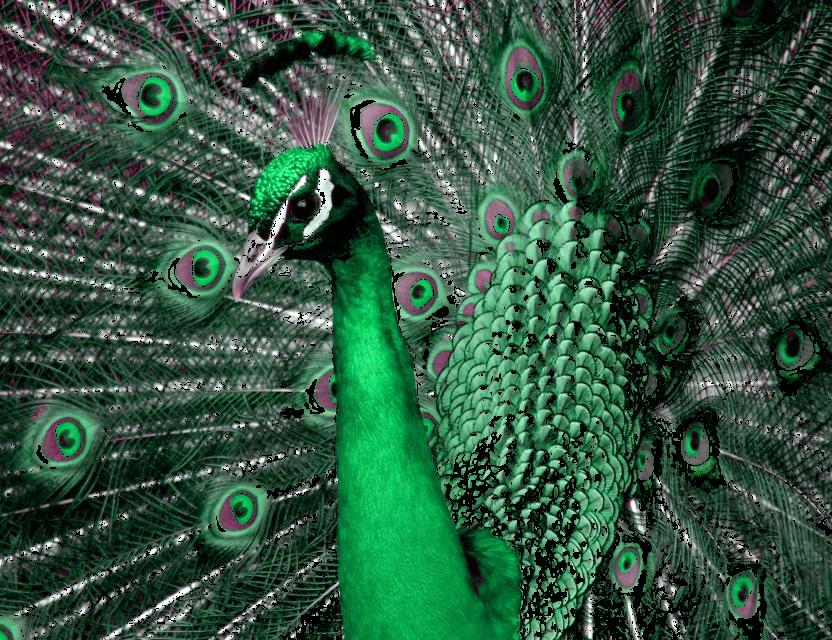
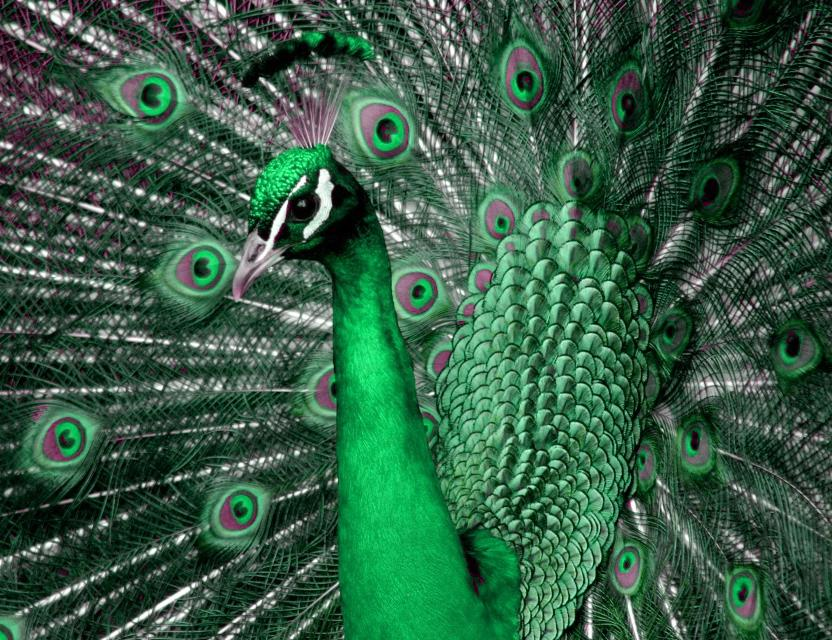
A bit more code cleaning

diff --git a/src/Harmonization.py b/src/Harmonization.py
@@ -7,6 +7,7 @@ from utils.Histogramme import Histogramme
 from colorsys import rgb_to_hsv as r2h
 from colorsys import hsv_to_rgb as h2r
 from utils.Modele import Modele
+import time
 
 
 ############################################################## Utils ################################################################################""
@@ -64,12 +65,12 @@ def assign_closest_edge(hue, model: Modele):
         return bord[0]
 
  
-def assign_closest_edge_opti(hue, model: Modele , i , j):
+def assign_closest_edge_opti(hue, image , model: Modele , i , j):
     '''
         Returns the closest border based on the closest edge
     '''
 
-    sector_index = assign_closest_sector_index_optimized(hue, model , i , j)
+    sector_index = assign_closest_sector_index_optimized(model , image , i , j)
     if sector_index is None:
         return hue 
     
@@ -83,7 +84,7 @@ def assign_closest_edge_opti(hue, model: Modele , i , j):
         return bord[0]
 
 
-def assign_closest_sector_index_optimized(h , model: Modele, image, i, j):
+def assign_closest_sector_index_optimized(model: Modele, image, i, j):
     '''
         Return the center of the closest edge, using the Energy calculation.
 
@@ -129,7 +130,7 @@ def assign_closest_sector_index_optimized(h , model: Modele, image, i, j):
 
  
         #Multiply by a constant and add E2 if you want to try the real formula
-        E = E1 
+        E = E1
 
         if E < min_energy:  
             min_energy = E
@@ -179,8 +180,8 @@ def harmony_by_template(image, model: Modele):
         for j in range(image.size[1]):
             r, g, b = image.getpixel((i, j))
             hue , saturation , _ = r2h(r / 255.0, g / 255.0, b / 255.0)
-            E = assign_closest_edge(hue , model) #old
-            #E = assign_closest_edge_opti(hue , model , i , j) #new
+            #E = assign_closest_edge(hue , model) #old
+            E = assign_closest_edge_opti(hue , image , model , i , j) #new
             sum_harmony_value += Modele.distance_congru(hue , E) * saturation  # Use closest edge
 
     return sum_harmony_value
@@ -276,13 +277,13 @@ def harmonize(image, imageOut, template: Modele, alpha):
             h, s, v = r2h(r / 255.0, g / 255.0, b / 255.0)
             closest_sector_index = assign_closest_sector_index(h, template)
             central_hue = template.C[closest_sector_index]
-            width = template.w[closest_sector_index]
+            sector_width = template.w[closest_sector_index]
 
             #If already in the template, keep it
             if template.distance_secteur(h, closest_sector_index) == -1:
                 new_h = h
             else:
-                new_h = project_hue(central_hue , width/2 , h)
+                new_h = project_hue(central_hue , sector_width/2 , h)
 
             new_r, new_g, new_b = [int(c * 255) for c in h2r(new_h, s, v)] #Convert back to RGB
             pixels_out[i, j] = (new_r, new_g, new_b)
@@ -310,18 +311,19 @@ def harmonize_opti(image , imageOut , template : Modele , alpha):
         for j in range(height):
             r, g, b = pixels[i, j]
             h, s, v = r2h(r / 255.0, g / 255.0, b / 255.0)
-            closest_edge_index = assign_closest_sector_index_optimized(h , template , image , i , j)
+            closest_edge_index = assign_closest_sector_index_optimized(template , image , i , j)
             central_hue = template.C[closest_edge_index]
-            width = template.w[closest_edge_index]
+            sector_width = template.w[closest_edge_index]
 
             #If already in the template, keep it
             if template.distance_secteur(h, closest_edge_index) == -1:
                 new_h = h
                 
             else:
-                new_h = project_hue(central_hue , width/2 , h)
-                new_r, new_g, new_b = [int(c * 255) for c in h2r(new_h, s, v)] #Convert back to RGB
-                pixels_out[i, j] = (new_r, new_g, new_b)
+                new_h = project_hue(central_hue , sector_width/2 , h)
+            
+            new_r, new_g, new_b = [int(c * 255) for c in h2r(new_h, s, v)] #Convert back to RGB
+            pixels_out[i, j] = (new_r, new_g, new_b)
 
     return imageOut
 
@@ -336,7 +338,7 @@ def harmonize_auto_angle(image , imageOut , template : Modele):
 
     print("Best angle : ", to_degrees(alpha))
 
-    return harmonize(image, imageOut, template, alpha)
+    return harmonize_opti(image, imageOut, template, alpha)
 
 
 def harmonize_auto(image , imageOut):
@@ -361,6 +363,24 @@ imOut = Image.new(im.mode, im.size)
 template = Modele("I")
 
 print("Harmonization opti")
+# Measure time for harmonize_opti
+start_time = time.time()
 imOut2 = Image.new(im.mode, im.size)
 harmonize_opti(im, imOut2, template, to_radians(45))
 imOut2.save("./src/images/30on30HSV.jpg")
+print("Time for harmonize_opti:", time.time() - start_time, "seconds")
+
+# Measure time for harmonize_auto_angle
+start_time = time.time()
+imOut4 = Image.new(im.mode, im.size)
+harmonize_auto_angle(im, imOut4, template)
+imOut4.save("./src/images/30on30AutoAngle.jpg")
+print("Time for harmonize_auto_angle:", time.time() - start_time, "seconds")
+
+# Measure time for harmonize_auto
+start_time = time.time()
+imOut3 = Image.new(im.mode, im.size)
+harmonize_auto(im, imOut3)
+imOut3.save("./src/images/30on30Auto.jpg")
+print("Time for harmonize_auto:", time.time() - start_time, "seconds")
+
